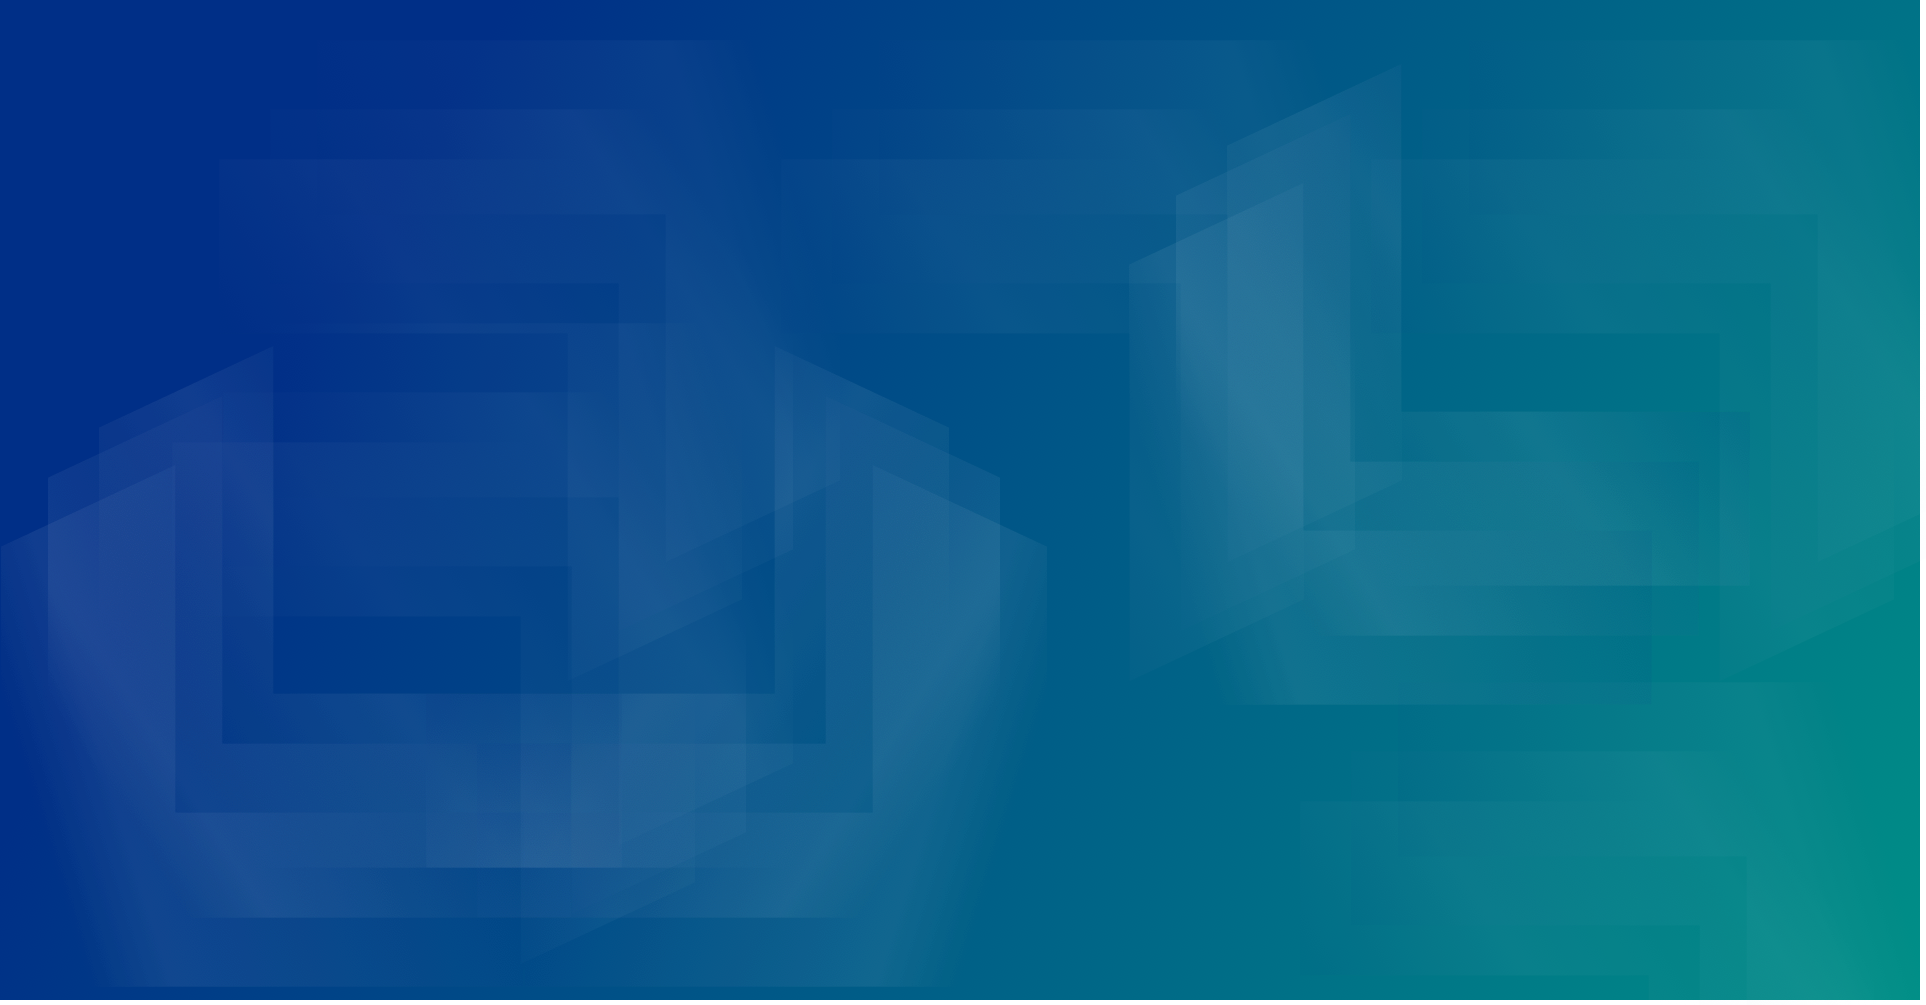
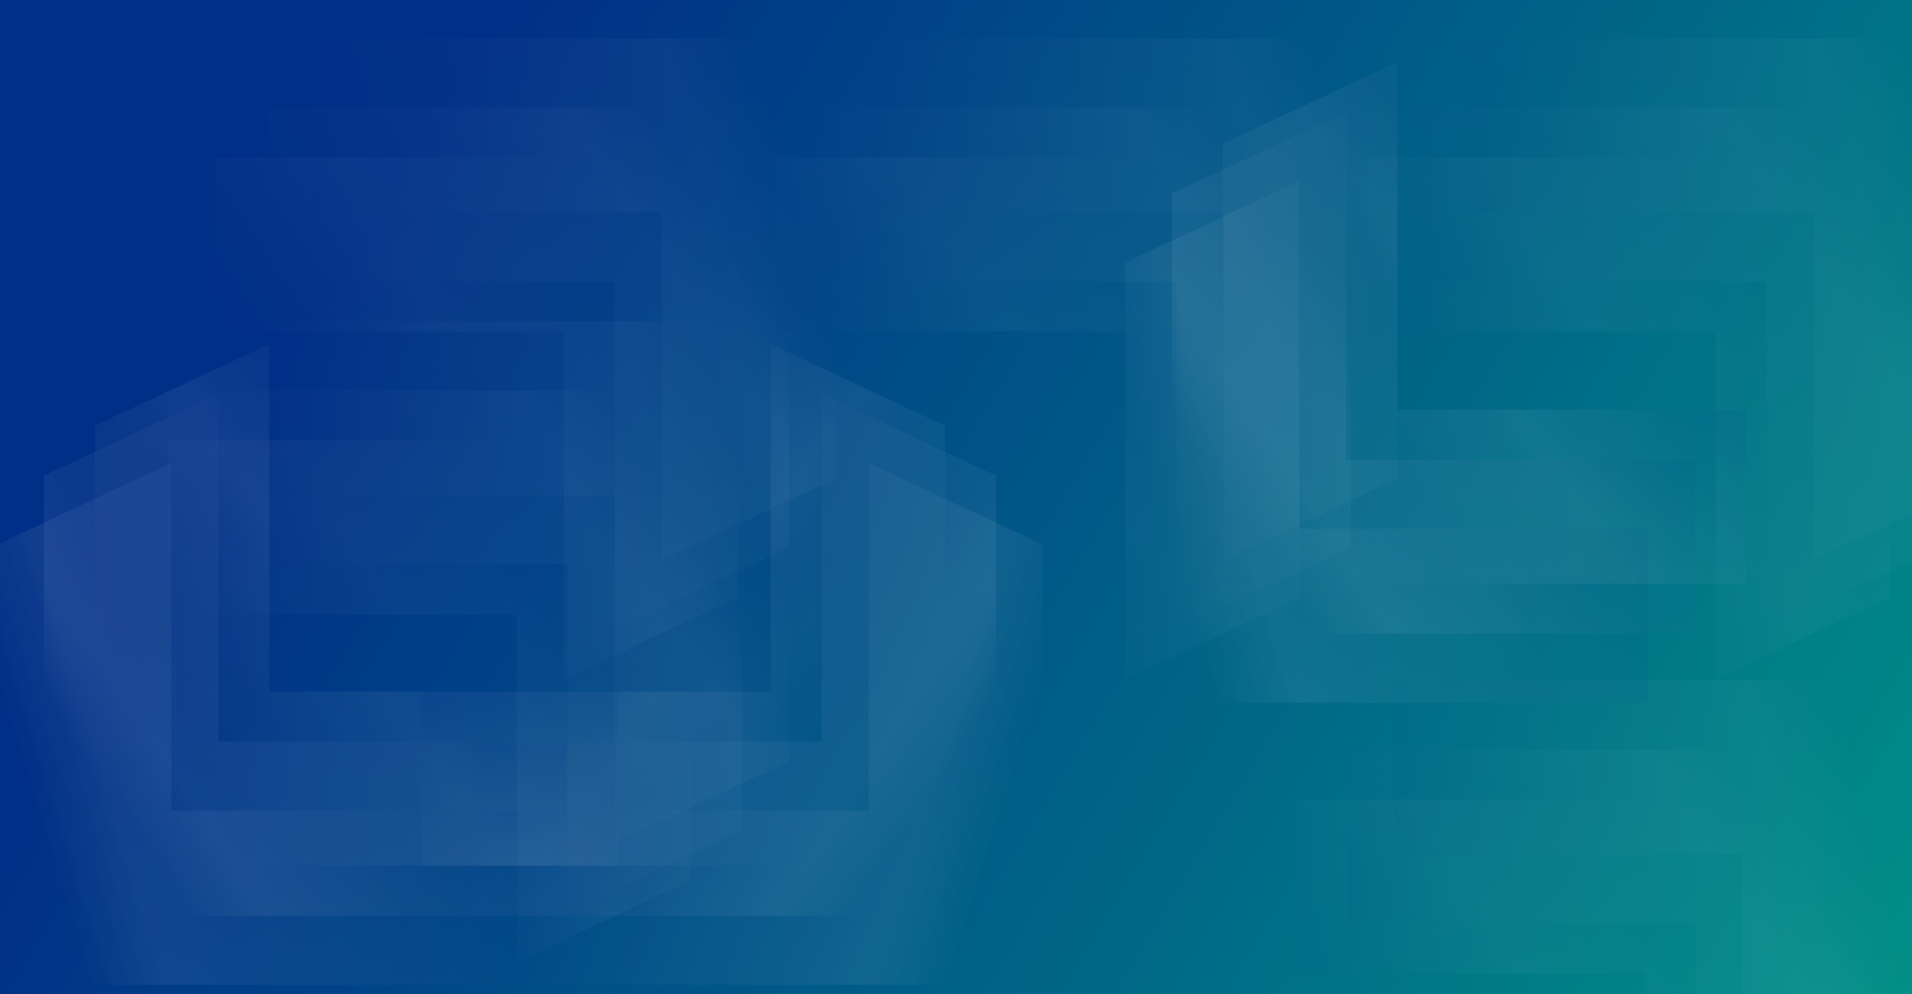
ENG-286 add copyright and change background image

Changed region(s): [[0.0, 0.0, 1.0, 1.0]]

diff --git a/themes/entando-6.1/login/resources/css/login.css b/themes/entando-6.1/login/resources/css/login.css
@@ -76,14 +76,24 @@ table {
   font-weight: 500;
   src: local("Roboto Medium"), local("Roboto-Medium"), url(../font/Font_Roboto/Roboto-Medium.ttf) format("truetype"); }
 
+body, html {
+    height: 100%;
+}
+
+
 .LoginPage {
   width: 100vw;
-  height: 100vh;
   background-image: url("../img/Stack.png");
   display: grid;
   grid-template-columns: 1fr minmax(auto, 653px) 1fr;
   grid-template-rows: minmax(auto, 233px) 534px 1fr;
-  background-repeat: no-repeat; }
+  /* Full height */
+  height: 100%;
+  /* Center and scale the image nicely */
+  background-position: center;
+  background-repeat: no-repeat;
+  background-size: cover;
+}
 
 .LoginPage__form {
   grid-row: 2/3;
@@ -124,9 +134,26 @@ table {
   font-weight: 400;
   text-align: center; }
 
+
+.LoginPage__copyright {
+  margin-top: 13px;
+  color: #002F87;
+  opacity: 90%;
+  font-family: "Roboto";
+  font-size: 15px;
+  letter-spacing: -0.17px;
+  line-height: 30px;
+  font-weight: 400;
+  text-align: center;
+}
+
+.LoginPage__url {
+  color: #00A0DF;
+  text-decoration: none;
+}
+
 .LoginPage__formGroup {
   display: grid;
-  margin-top: 20px;
   grid-template-columns: 1fr;
   grid-template-rows: repeat(1fr, 3);
   padding-bottom: 50px;
